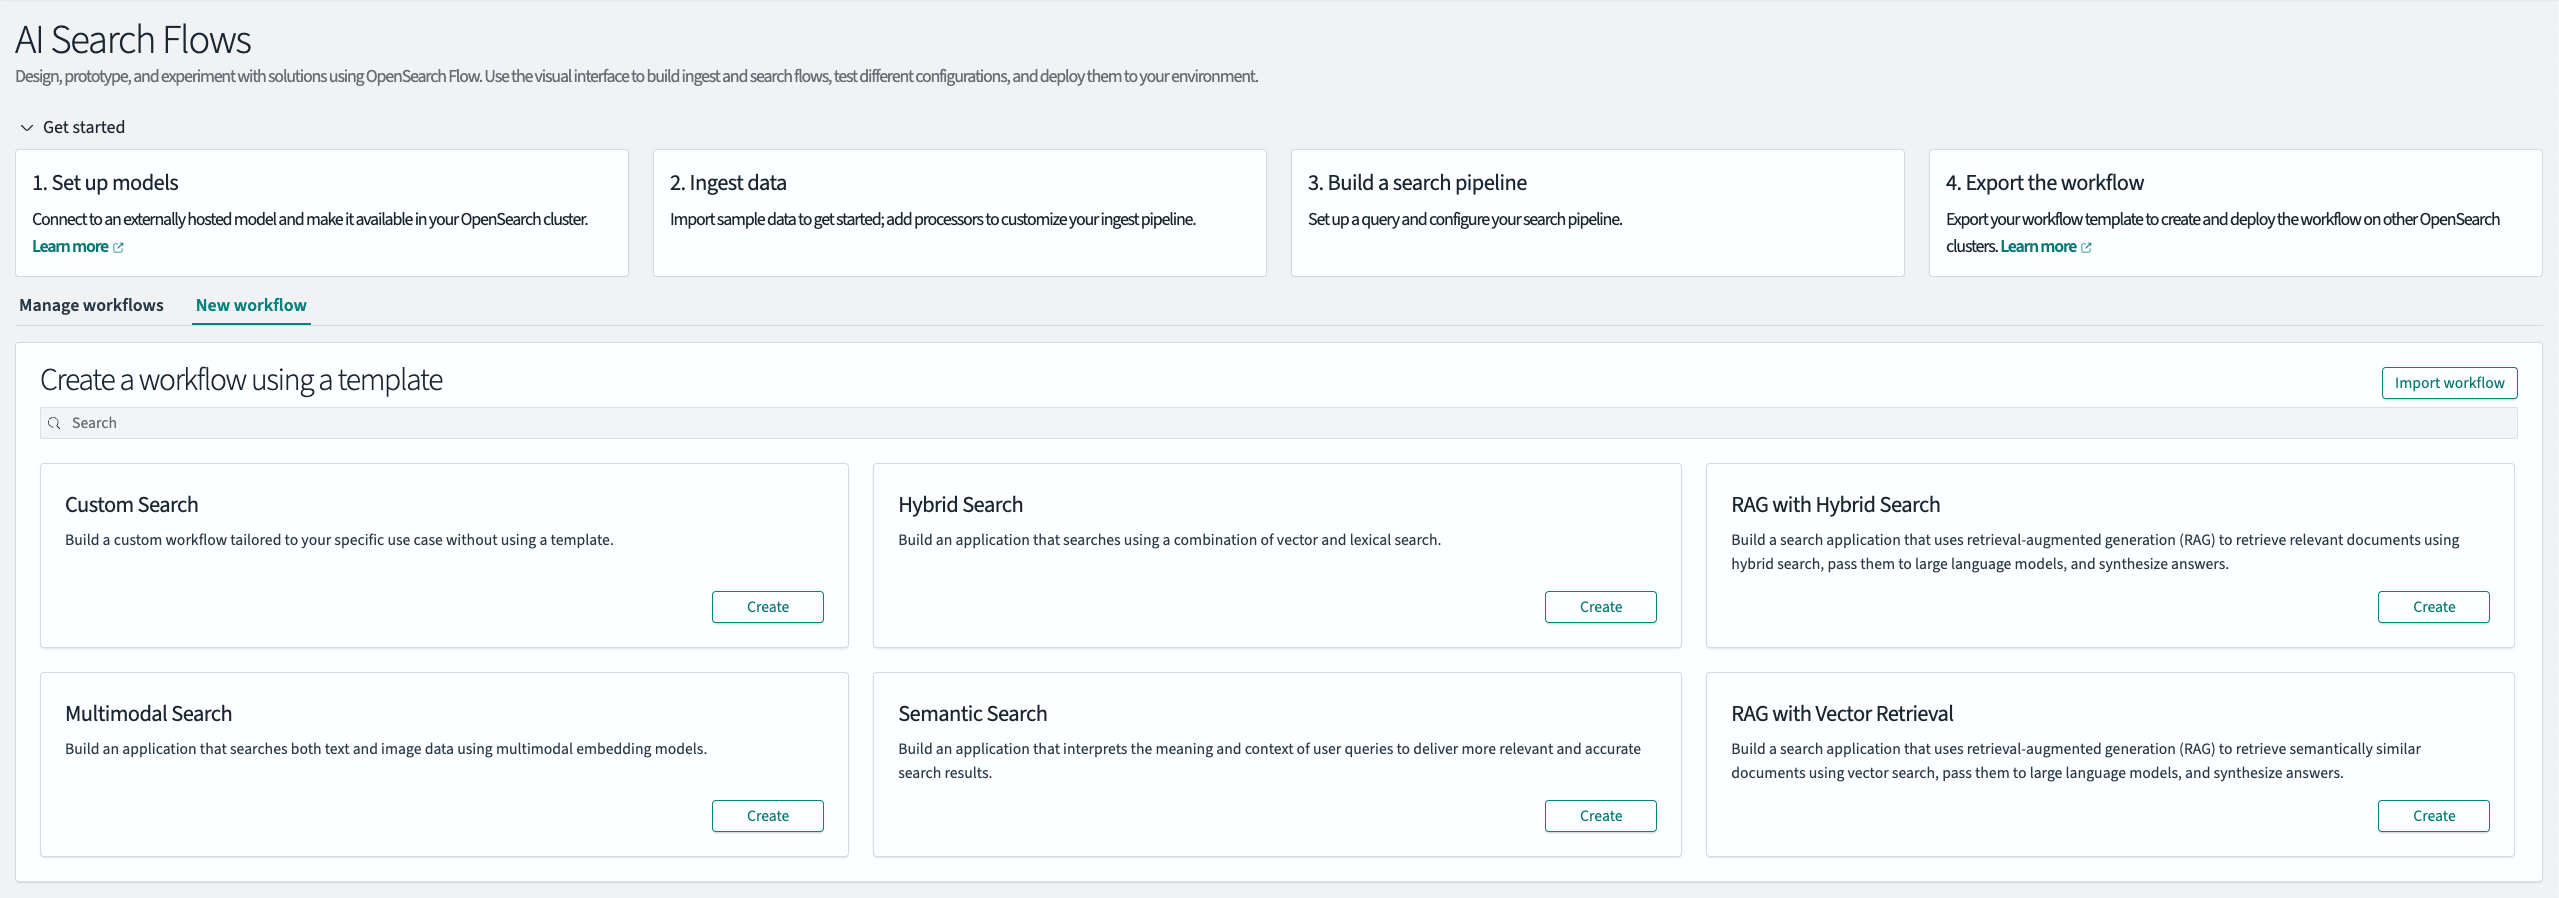
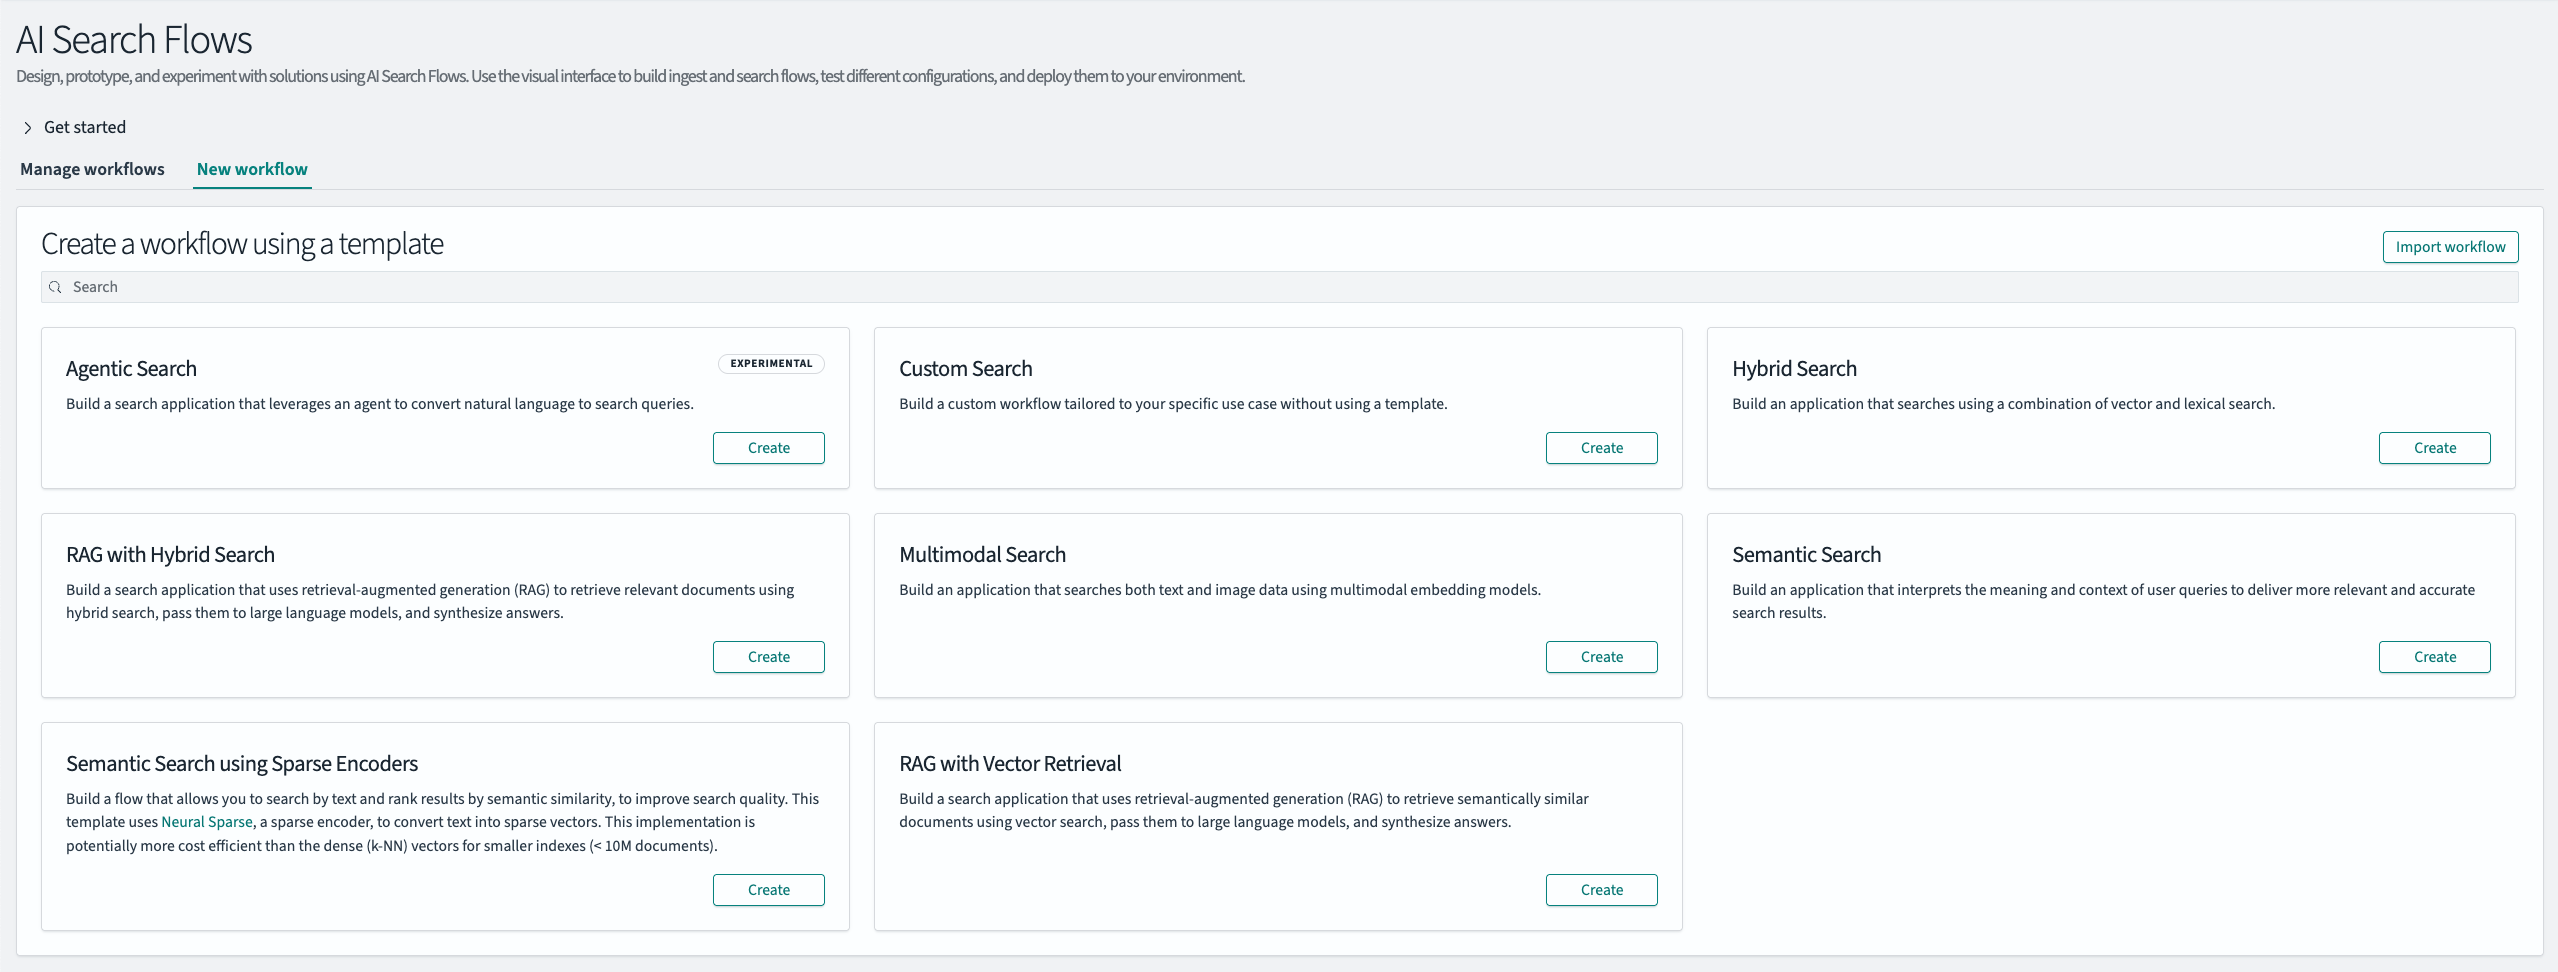
Add agentic search UI documentation

diff --git a/_vector-search/ai-search/building-agentic-search-flows.md b/_vector-search/ai-search/building-agentic-search-flows.md
@@ -1,0 +1,70 @@
+---
+layout: default
+title: Configuring agentic search
+parent: Building AI search workflows in OpenSearch Dashboards
+grand_parent: AI search
+nav_order: 20
+---
+
+# Configuring agentic search
+
+This is an experimental UI feature. For updates on the progress of the feature or if you want to leave feedback, join the discussion on the [OpenSearch forum](https://forum.opensearch.org/).  
+{: .warning}
+
+**Introduced 3.3**
+{: .label .label-purple }
+
+Agentic search lets you ask questions in natural language and have OpenSearch agents plan and execute the retrieval automatically. The AI Search Flows plugin offers an intuitive user interface for configuring agents, equipping agents with different tools, and executing agentic searches.
+
+**Prerequisite: Provision ML resources**<br>
+If you'd like to configure new agents, be sure to first provision appropriate models. For working examples, see [here]({{site.url}}{{site.baseurl}}/TODO/).
+
+**Prerequisite: Ingest data**<br>
+Ensure you have a sufficient number of documents in your cluster to reasonably evaluate your agentic searches.
+
+<details markdown="block">
+  <summary>
+    Table of contents
+  </summary>
+  {: .text-delta }
+1. TOC
+{:toc}
+</details>
+
+## Agentic search workflow editor
+
+You can build and test your agentic search workflow in the editor, shown in the following image.
+
+![Agentic search workflow editor]({{site.url}}{{site.baseurl}}/images/dashboards-flow-framework/agentic-search-editor.png)
+
+The workflow editor is organized into two main components:
+
+- **Configure agent**: The resizable panel panel for configuring agents. Select existing agents to view details, update existing agents, or create new agents from scratch. Create `flow` or `conversational` agents, and enable different tools to expand your agent's capabilities, such as searching the web, or searching other indices in your cluster. For full customization, toggle to the `JSON` view and edit directly.
+- **Test flow**: The resizable panel for executing your agentic search flow. This consists of 2 main selections:
+  - **Index**: Select an existing index to search against, or search against all available indices.
+  - **Query**: Write your natural language query. Optionally add query fields, which help the agent focus on particular fields in your selected index to search against (if applicable). You may also toggle to the `JSON` view to edit the full `agentic` search query directly.
+
+## Example: Product search with GPT-5
+
+This example is using a deployed OpenAI GPT-5 model as specified [here]({{site.url}}{{site.baseurl}}/TODO/).
+{: .note}
+
+1. On the **Workflows** page, select the **New workflow** tab, as shown in the following image.
+   ![New workflow page]({{site.url}}{{site.baseurl}}/images/dashboards-flow-framework/new-workflow-page.png)
+2. In the **Agentic Search** template, select **Create**.
+3. Provide some basic details, as shown in the following image:
+   - A unique workflow name and description
+     ![Quick configure modal]({{site.url}}{{site.baseurl}}/images/dashboards-flow-framework/agentic-search-quick-configure-modal.png)
+4. Click **Create** to create your workflow, and automatically navigate to the **Workflow Details** page, where you can begin configuring.
+5. Under **Configure agent**, click **Create new agent**. This will pre-populate an agent for you. Provide a unique name and description.
+6. Under **Tools** > **Query Planning** > **Query planning model**, select the **GPT-5** model.
+7. Click **Create agent** in the bottom-left corner.
+   ![Agent configuration]({{site.url}}{{site.baseurl}}/images/dashboards-flow-framework/agent-configuration.png)
+8. Under **Test flow** > **Index**, select the index you'd like to search against. In this case, a sample index `sports_and_outdoors` containing a subset of documents from the MIT-licensed [AmazonReview2023 dataset](https://github.com/hyp1231/AmazonReviews2023).
+9. Under **Test flow** > **Search**, enter a natural language query describing the results you want.
+10. Click **Search**. The agent may take several seconds to execute.
+    ![Agent searching]({{site.url}}{{site.baseurl}}/images/dashboards-flow-framework/agent-searching.png)
+11. Under **Generated query**, view the query DSL that the agent generated and ran against your cluster.
+    ![Agent query]({{site.url}}{{site.baseurl}}/images/dashboards-flow-framework/agentic-search-agent-query.png)
+12. Under **Search results**, view the **Raw response**, the formatted table of **Hits**, or **Aggregations** if applicable.
+    ![Search results]({{site.url}}{{site.baseurl}}/images/dashboards-flow-framework/agentic-search-results.png)

diff --git a/_vector-search/ai-search/workflow-builder.md b/_vector-search/ai-search/workflow-builder.md
@@ -13,7 +13,7 @@ redirect_from:
 
 # Building AI search workflows in OpenSearch Dashboards
 
-In OpenSearch Dashboards, you can iteratively build and test workflows containing ingest and search pipelines using AI Search Flows. Using a UI editor to build workflows simplifies the creation of artificial intelligence and machine learning (AI/ML) use cases that include ML inference processors, such as vector search and retrieval-augmented generation (RAG). For example configurations of available AI search types (including semantic search, hybrid search, RAG, and multimodal search), see [Configuring AI search types]({{site.url}}{{site.baseurl}}/vector-search/ai-search/building-flows/).
+In OpenSearch Dashboards, you can iteratively build and test workflows containing ingest and search pipelines using AI Search Flows. Using a UI editor to build workflows simplifies the creation of artificial intelligence and machine learning (AI/ML) use cases that include ML inference processors, such as vector search and retrieval-augmented generation (RAG). For example configurations of available AI search types (including semantic search, hybrid search, RAG, and multimodal search), see [Configuring AI search types]({{site.url}}{{site.baseurl}}/vector-search/ai-search/building-flows/). For examples of configuring agentic search flows, see [Configuring agentic search]({{site.url}}{{site.baseurl}}/vector-search/ai-search/building-agentic-search-flows/)
 
 Once your workflow is finalized, you can export it as a [workflow template]({{site.url}}{{site.baseurl}}/automating-configurations/workflow-templates/) to recreate identical resources across multiple clusters.
 
@@ -56,7 +56,6 @@ The workflow editor is organized like an integrated development environment (IDE
   - **Errors**: Shows the latest errors from updates, ingest operations, or searches. This tab opens automatically when a new error occurs.
   - **Resources**: Lists OpenSearch resources linked to the workflow, including up to one ingest pipeline, one index, and one search pipeline. To view resource details, select **Inspect**.
   - **Preview**: A read-only visualization of how data moves through your ingest and search flows. As you make changes to your flow, this view updates automatically. You can also switch to the **JSON** tab to see the underlying template configuration.
-
 
 ## Example: Semantic search with RAG
 
@@ -107,10 +106,12 @@ We strongly recommend using models with full model interfaces. For a list of exa
     ![Test search flow]({{site.url}}{{site.baseurl}}/images/dashboards-flow-framework/search-test-flow.png)
 12. To view the search results, select **Run test**. You can view the results either as a formatted list of hits or as the raw JSON search response.
 13. Depending on your use case, you can modify configurations in the following ways:
+
 - Experiment with different query parameters.
 - Try different queries.
 - Modify existing processors under **Transform query** or **Transform results**.
 - Add or remove processors under **Transform query** or **Transform results**.
+
 14. To export your workflow, select **Export** in the header. The displayed data represents the [Workflow template]({{site.url}}{{site.baseurl}}/automating-configurations/workflow-templates/), which contains the full configuration for the OpenSearch resources you've created, including the ingest pipeline, index, and search pipeline. You can download the template in JSON or YAML format by selecting the button on the right. To build identical resources in other OpenSearch clusters, use the [Provision Workflow API]({{site.url}}{{site.baseurl}}/automating-configurations/api/provision-workflow/).
 
 ## Advanced data transformations
